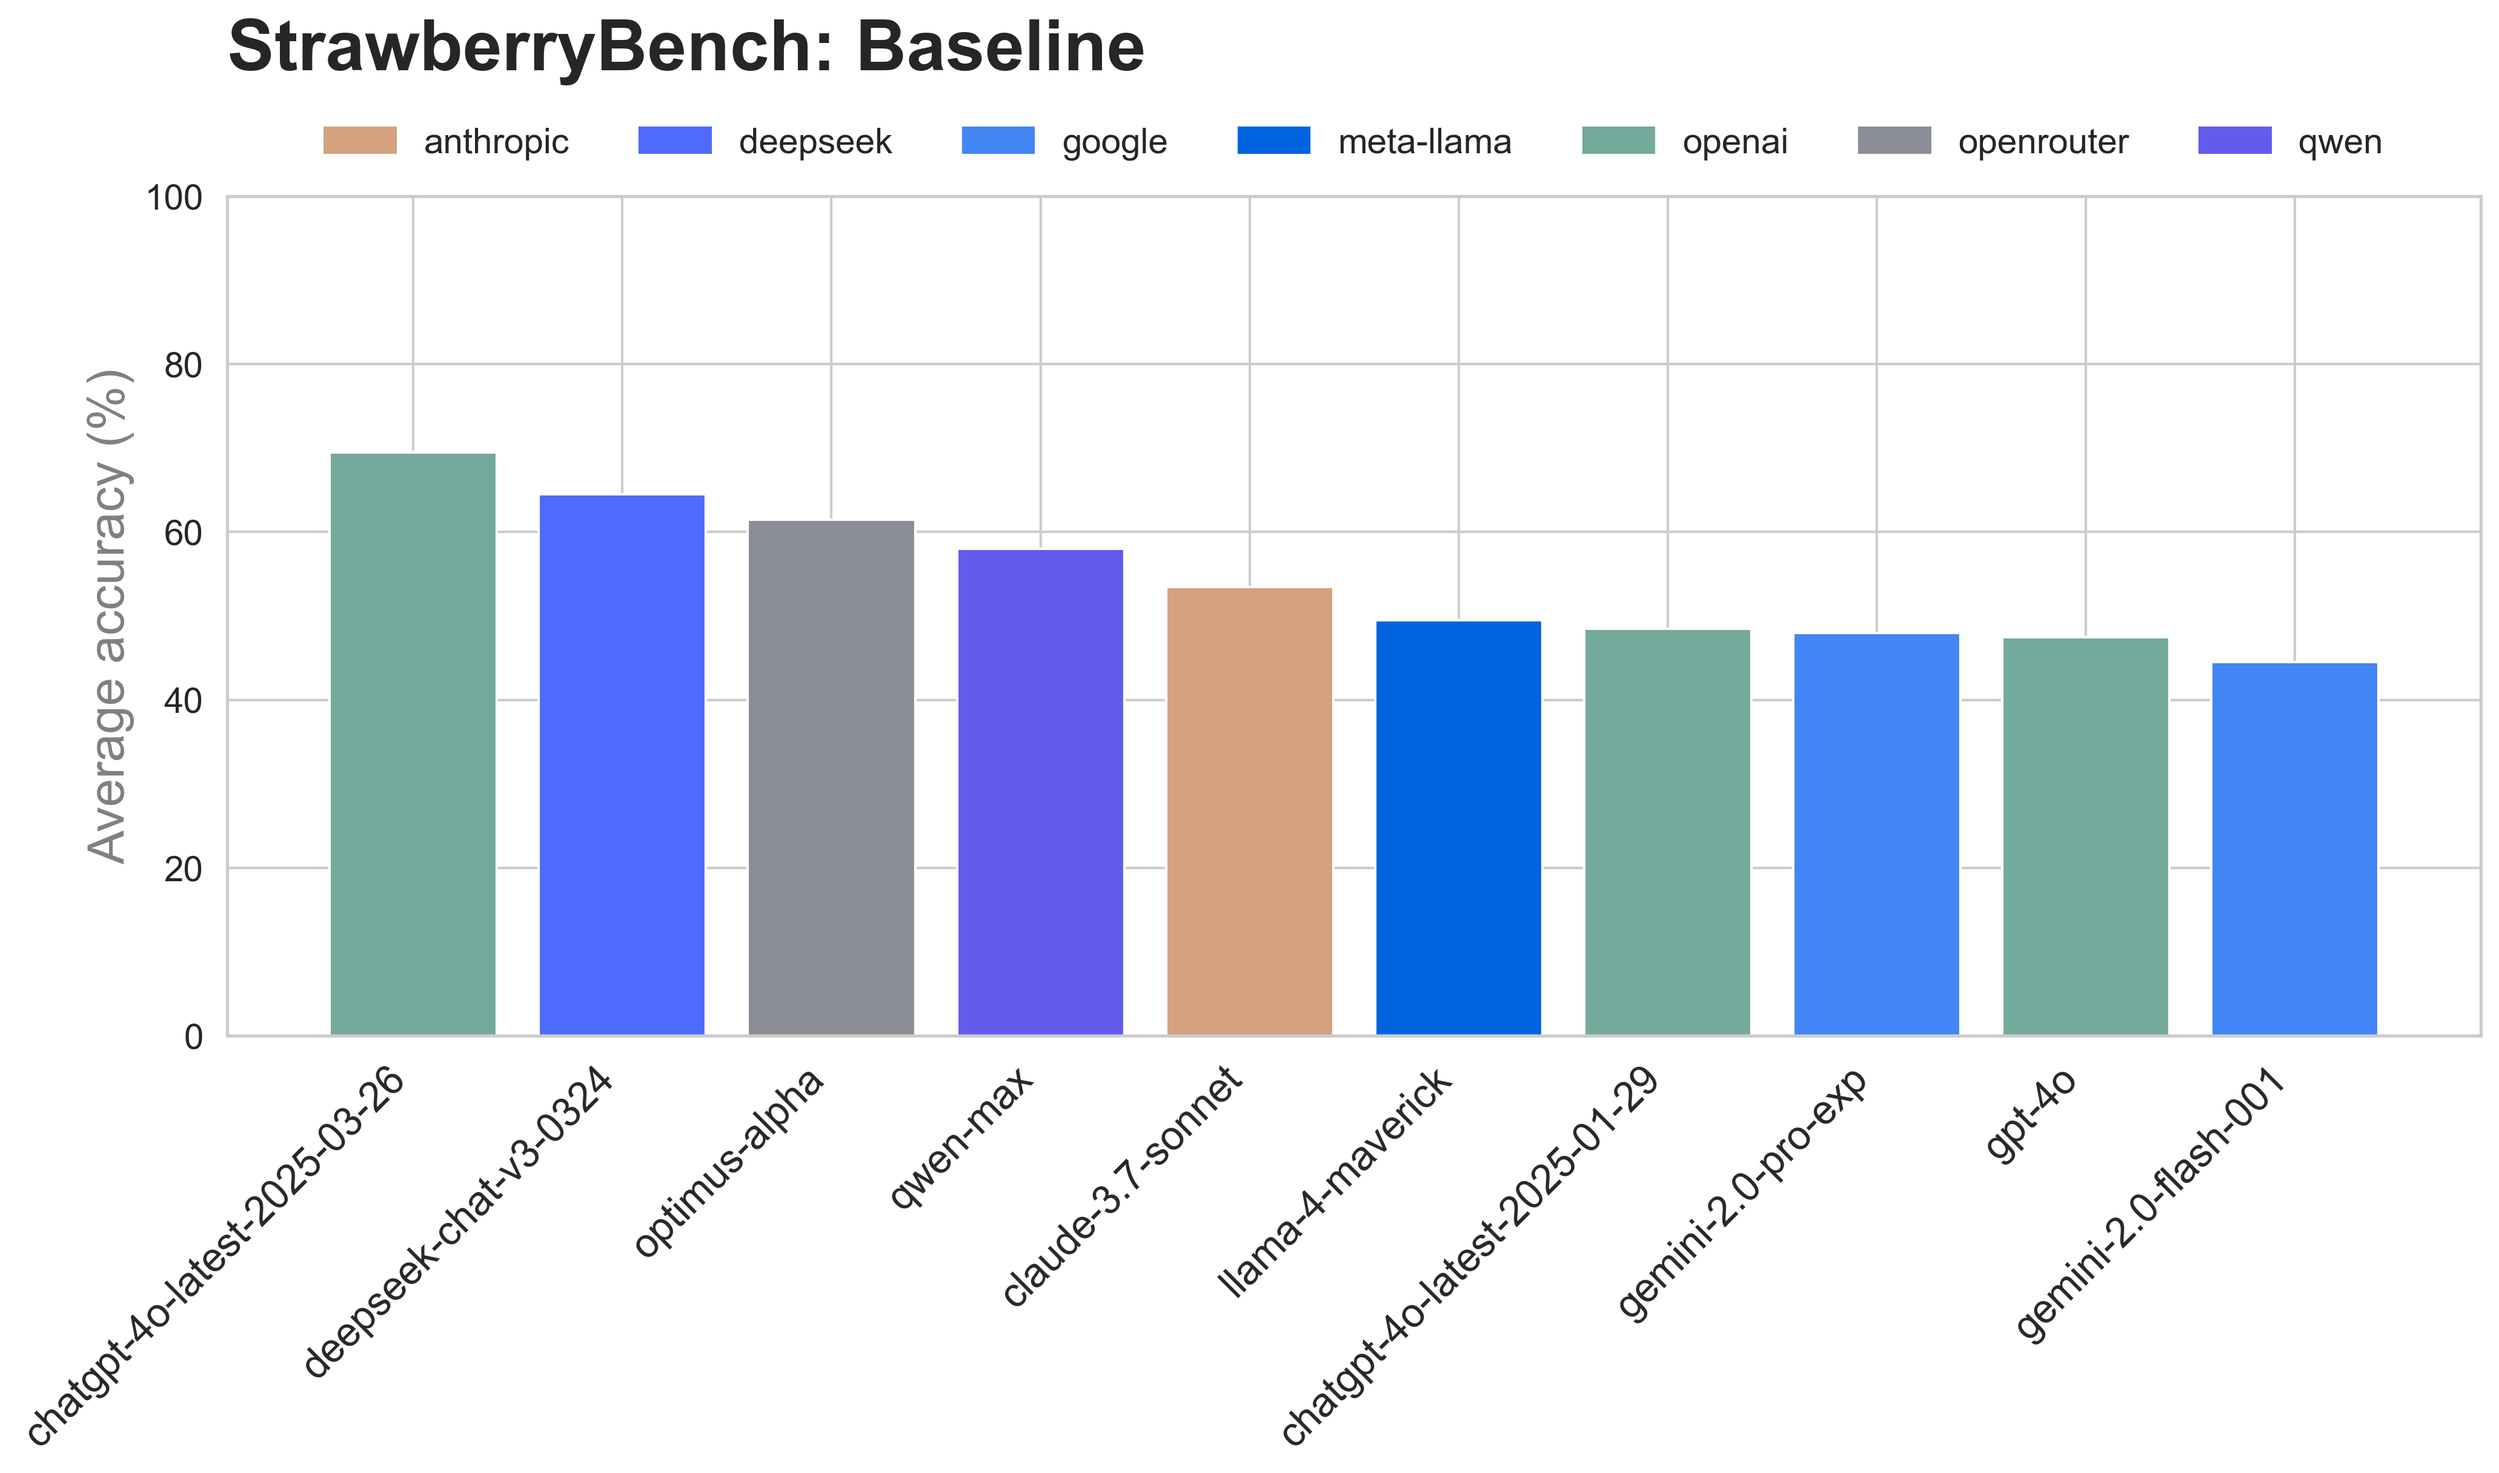
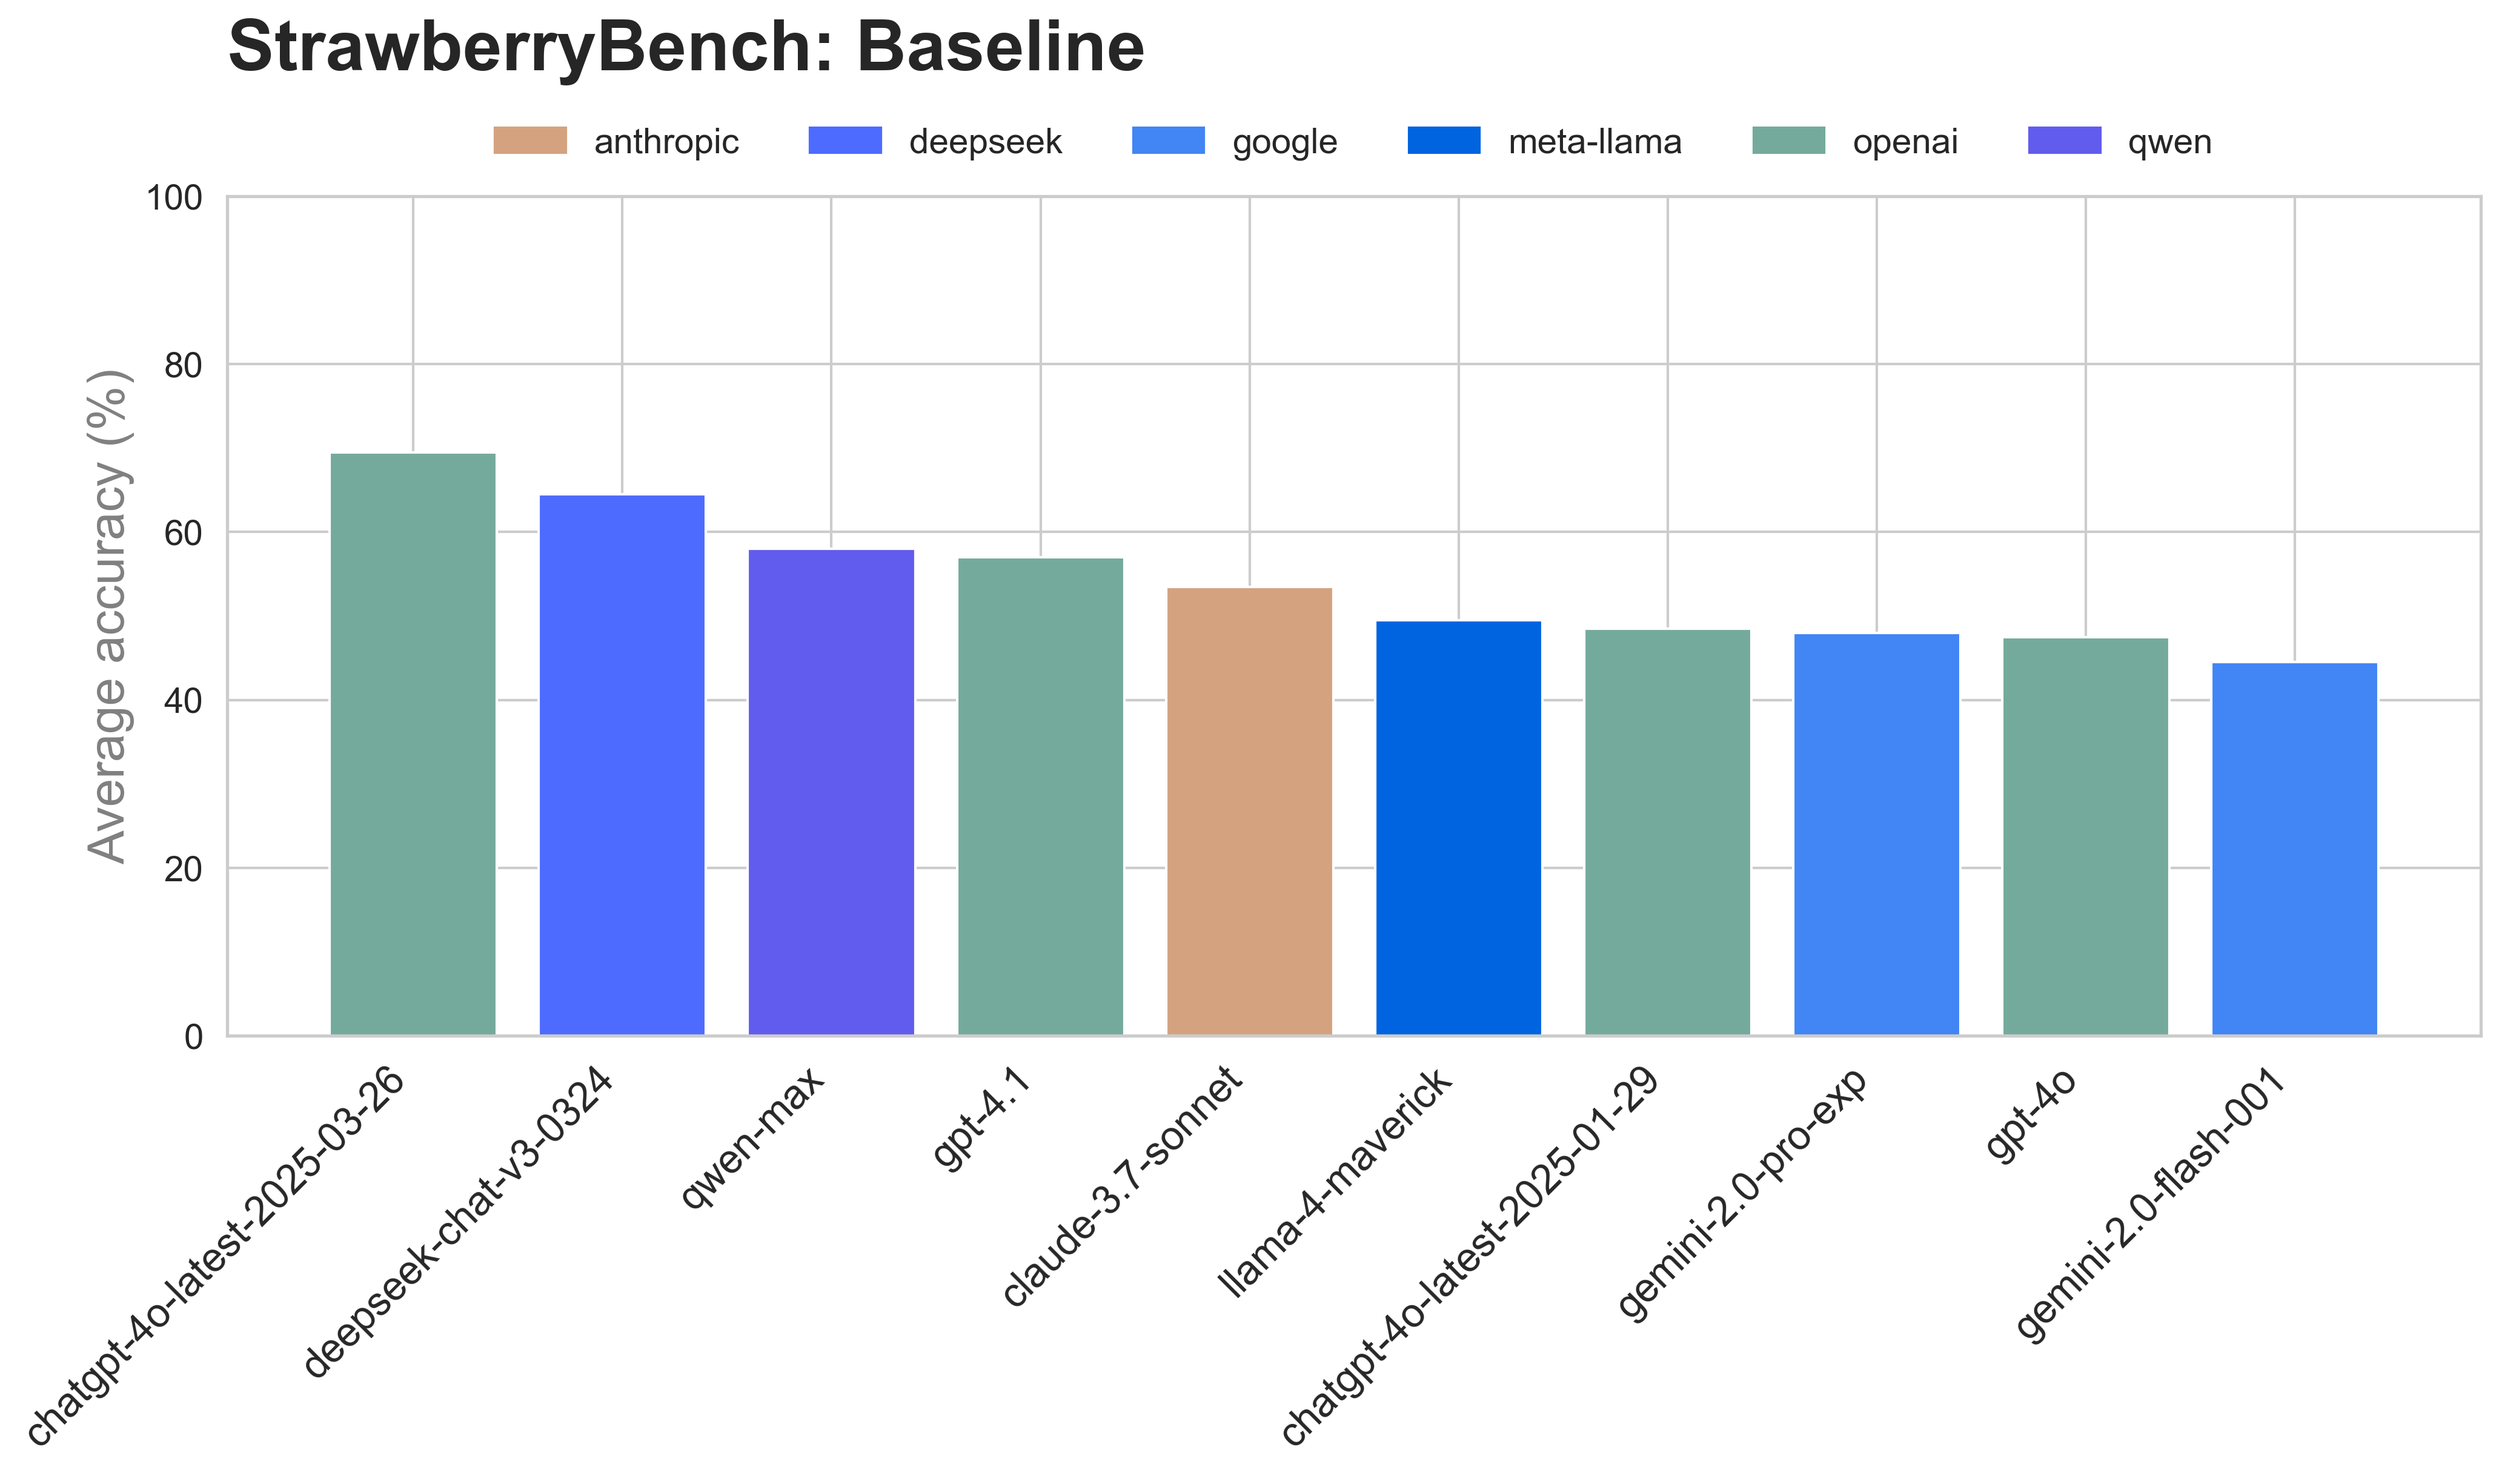
Remove optimus and quasar, add gpt 4.1 family

diff --git a/src/config.py b/src/config.py
@@ -21,11 +21,12 @@ MODELS = [
     # { "name": "openai/gpt-4.5-preview", "client": "openai", "type": "nocot" },
     # { "name": "openai/gpt-4o", "client": "openai", "type": "nocot" },
     # { "name": "openai/gpt-4o-mini", "client": "openai", "type": "nocot" },
-    # { "name": "openrouter/quasar-alpha", "client": "openrouter", "type": "nocot" },
+    # { "name": "openai/gpt-4.1", "client": "openai", "type": "nocot" },
+    # { "name": "openai/gpt-4.1-mini", "client": "openai", "type": "nocot" },
+    # { "name": "openai/gpt-4.1-nano", "client": "openai", "type": "nocot" },
     # { "name": "qwen/qwen-max", "client": "openrouter", "type": "nocot", "settings": { "rate_limit": 30 } },
     # { "name": "x-ai/grok-2-1212", "client": "openrouter", "type": "nocot" },
     # { "name": "x-ai/grok-3-beta", "client": "openrouter", "type": "nocot" },
-    # { "name": "openrouter/optimus-alpha", "client": "openrouter", "type": "nocot" },
 
     # { "name": "anthropic/claude-3.5-haiku", "client": "openrouter", "type": "cot" },
     # { "name": "anthropic/claude-3.5-sonnet", "client": "openrouter", "type": "cot" },
@@ -49,11 +50,12 @@ MODELS = [
     # { "name": "openai/gpt-4.5-preview", "client": "openai", "type": "cot" },
     # { "name": "openai/gpt-4o", "client": "openai", "type": "cot" },
     # { "name": "openai/gpt-4o-mini", "client": "openai", "type": "cot" },
-    # { "name": "openrouter/quasar-alpha", "client": "openrouter", "type": "cot" },
+    # { "name": "openai/gpt-4.1", "client": "openai", "type": "cot" },
+    # { "name": "openai/gpt-4.1-mini", "client": "openai", "type": "cot" },
+    # { "name": "openai/gpt-4.1-nano", "client": "openai", "type": "cot" },
     # { "name": "qwen/qwen-max", "client": "openrouter", "type": "cot", "settings": { "rate_limit": 30 } },
     # { "name": "x-ai/grok-2-1212", "client": "openrouter", "type": "cot" },
     # { "name": "x-ai/grok-3-beta", "client": "openrouter", "type": "cot" },
-    # { "name": "openrouter/optimus-alpha", "client": "openrouter", "type": "cot" },
 
     # { "name": "anthropic/claude-3-7-sonnet-20250219", "client": "anthropic", "type": "reasoning", "settings": {"rate_limit": 4} },
     # { "name": "deepseek/deepseek-r1", "client": "openrouter", "type": "reasoning" },
